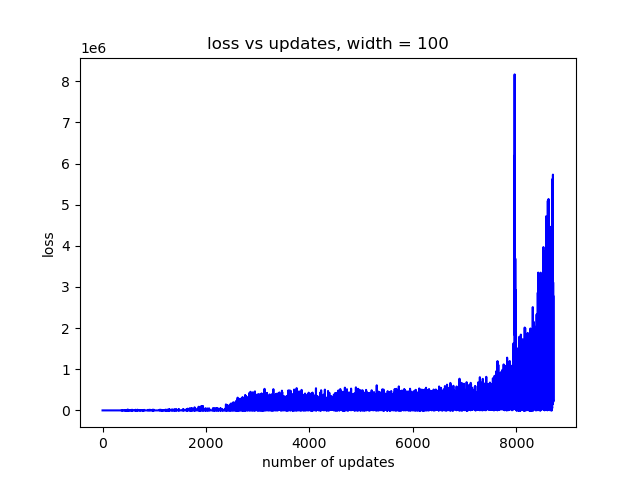
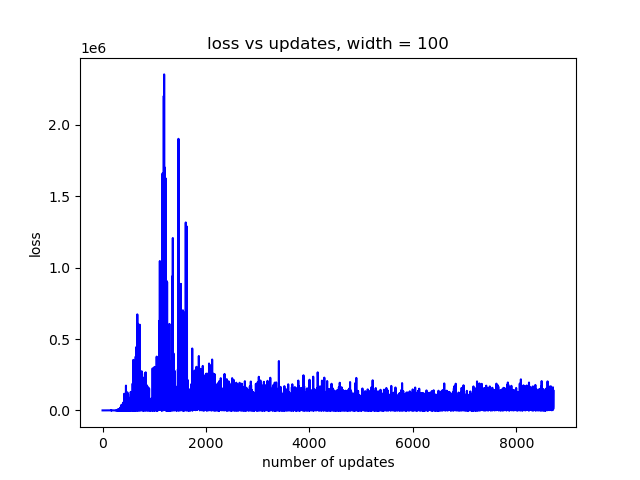
finished with homework 5

diff --git a/Homework5/part_2_problem2b.py b/Homework5/part_2_problem2b.py
@@ -15,19 +15,29 @@ widths = [5, 10, 25, 50, 100]
 for width in widths:
     network = NN(depth=4, width=width, input_width=5, initial_w="gaussian")
 
-    network = SGD(network, 10, df, gamma_0=0.05, d=0.07)
+    network = SGD(network, 10, df, 0.05, 0.07, test_df)
 
     number_of_updates = list(range(0, len(network.loss)))
     plt.plot(number_of_updates, network.loss, 'b') 
     plt.xlabel("number of updates")
     plt.ylabel("loss")
     plt.title(f"loss vs updates, width = {width}")
-    plt.savefig(f"/Users/jakehirst/Desktop/Machine_Learning/Homework5/edited_width_{width}_loss.png")
+    plt.show()
+    #plt.savefig(f"/Users/jakehirst/Desktop/Machine_Learning/Homework5/edited_width_{width}_loss.png")
     plt.close()
     number_of_epochs = list(range(0, len(network.errors)))
     plt.plot(number_of_epochs, network.errors, 'r')
     plt.xlabel("number of epochs")
     plt.ylabel("error")
     plt.title(f"error vs epochs, width = {width}")
-    plt.savefig(f"/Users/jakehirst/Desktop/Machine_Learning/Homework5/edited_width_{width}_error.png")
+    plt.show()
+    #plt.savefig(f"/Users/jakehirst/Desktop/Machine_Learning/Homework5/edited_width_{width}_error.png")
+    plt.close()
+    
+    plt.plot(number_of_epochs, network.test_errors, 'r')
+    plt.xlabel("number of epochs")
+    plt.ylabel("test_error")
+    plt.title(f"testt_error vs epochs, width = {width}")
+    plt.show()
+    #plt.savefig(f"/Users/jakehirst/Desktop/Machine_Learning/Homework5/edited_width_{width}_test_error.png")
     plt.close()

diff --git a/Homework5/part_2_problem2c.py b/Homework5/part_2_problem2c.py
@@ -15,7 +15,7 @@ widths = [5, 10, 25, 50, 100]
 for width in widths:
     network = NN(depth=3, width=width, input_width=5, initial_w="zeros")
 
-    network = SGD(network, 10, df, gamma_0=0.02, d=0.07)
+    network = SGD(network, 10, df, 0.02, 0.07, test_df)
 
     number_of_updates = list(range(0, len(network.loss)))
     plt.plot(number_of_updates, network.loss, 'b') 
@@ -30,4 +30,11 @@ for width in widths:
     plt.ylabel("error")
     plt.title(f"error vs epochs, width = {width}")
     plt.savefig(f"/Users/jakehirst/Desktop/Machine_Learning/Homework5/edited_width_{width}_zeros_error.png")
+    plt.close()
+    
+    plt.plot(number_of_epochs, network.test_errors, 'r')
+    plt.xlabel("number of epochs")
+    plt.ylabel("test_error")
+    plt.title(f"testt_error vs epochs, width = {width}")
+    plt.savefig(f"/Users/jakehirst/Desktop/Machine_Learning/Homework5/edited_width_{width}_zeros_test_error.png")
     plt.close()

diff --git a/Neural_Networks/SGD.py b/Neural_Networks/SGD.py
@@ -4,7 +4,7 @@ from Backward_propagation import *
 import os
 import pandas as pd
 
-def SGD(network, epochs, df, gamma_0, d):
+def SGD(network, epochs, df, gamma_0, d, test_df):
     for epoch in range(epochs):
         learning_rate = gamma_0 / (1 + (gamma_0/d) * epoch)
         print("epoch = " + str(epoch))
@@ -25,9 +25,12 @@ def SGD(network, epochs, df, gamma_0, d):
             delta_output_weights, delta_hidden_weights, delta_input_weights = back_propogate(y, network, z_matrix, x, true_y=true_y)
             network.update_NN_weights(delta_output_weights, delta_hidden_weights, delta_input_weights, learning_rate)
         
+        
         error = get_error(df, network)
+        test_error = get_error(test_df, network)
         print(error)
         network.errors.append(error)
+        network.test_errors.append(test_error)
     return network
             
     

diff --git a/Neural_Networks/NN.py b/Neural_Networks/NN.py
@@ -44,6 +44,8 @@ class NN():
         self.width = width
         self.loss = []
         self.errors = []
+        self.test_errors = []
+
         
     def update_NN_weights(self, delta_output_weights, delta_hidden_weights, delta_input_weights, learning_rate):
         self.hidden_weights = self.hidden_weights - learning_rate * delta_hidden_weights 

diff --git a/SVM/README.md b/SVM/README.md
@@ -1,0 +1,19 @@
+DualSVM:
+
+To run DualSVM, simply load a dataframe with get_df(filepath), 
+
+optimize alpha with get_alpha(), whose inputs are the dataframe, C constant that you choose, the type of kernel trick you would like to use, and gamma,
+
+get the weight vector with get_w() whose inputs are the dataframe, the optimized alpha, the type of kernel trick, and gamma,
+
+get the bias term beta by calling get_beta() whose inputs are the dataframe and the learned weight vector w.
+
+Then to get the error of your model, simply call get_error(), which has inputs of the dataframe youd like to test against, the weight vector w, the learned bias term beta, the kernel trick you used, and gamma.
+
+stochastic_sub:
+
+To run stochastic subgradient descent SVM, simply...
+
+load a dataframe with get_df(filepath), 
+
+and call stoch_sub_grad_desc() whose inputs are the dataframe you want to learn, the maximum number of epochs, C constant that you choose, the method of getting your learning rate, gamma_0, and a if using learning rate method 1.
